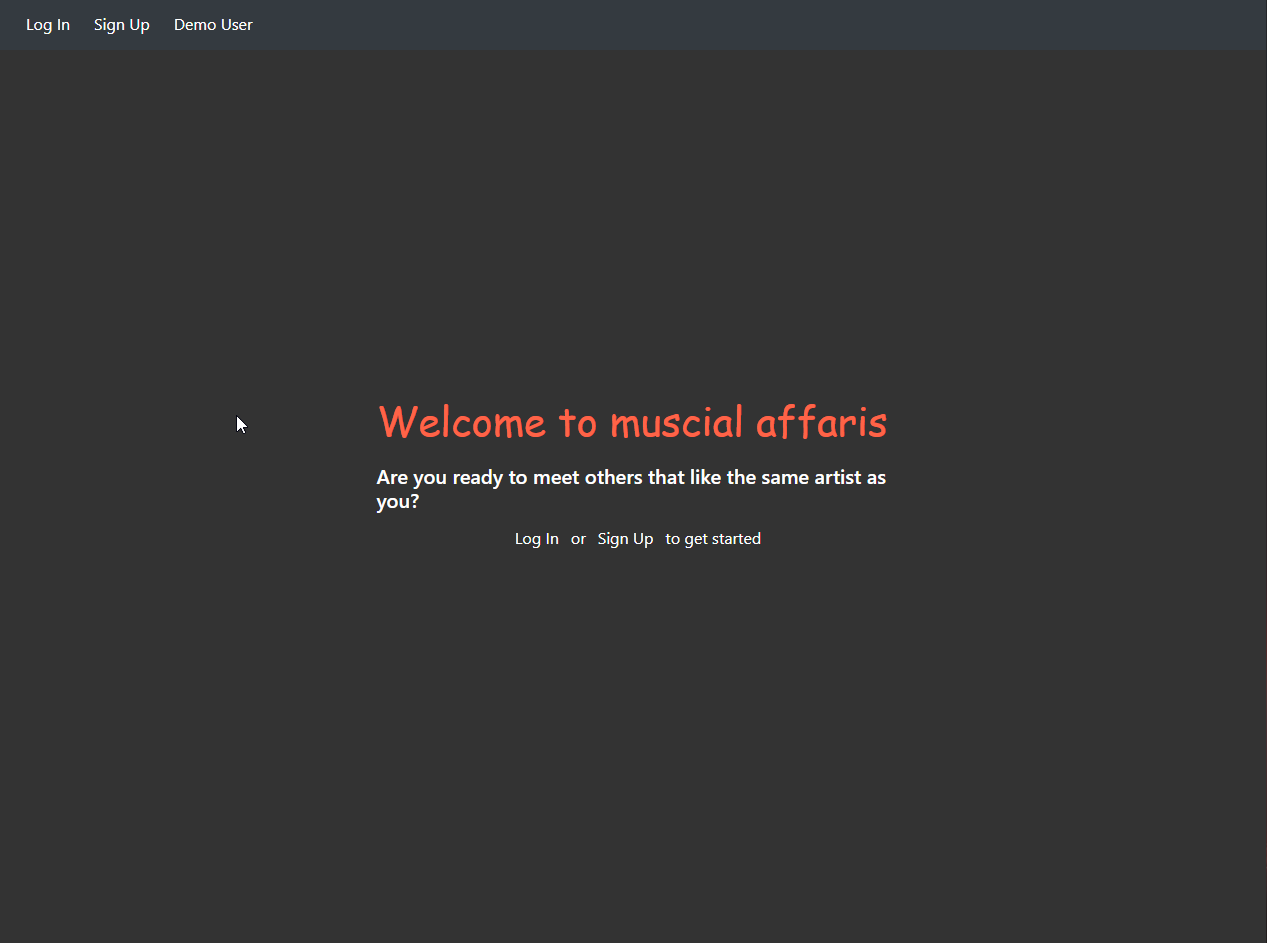
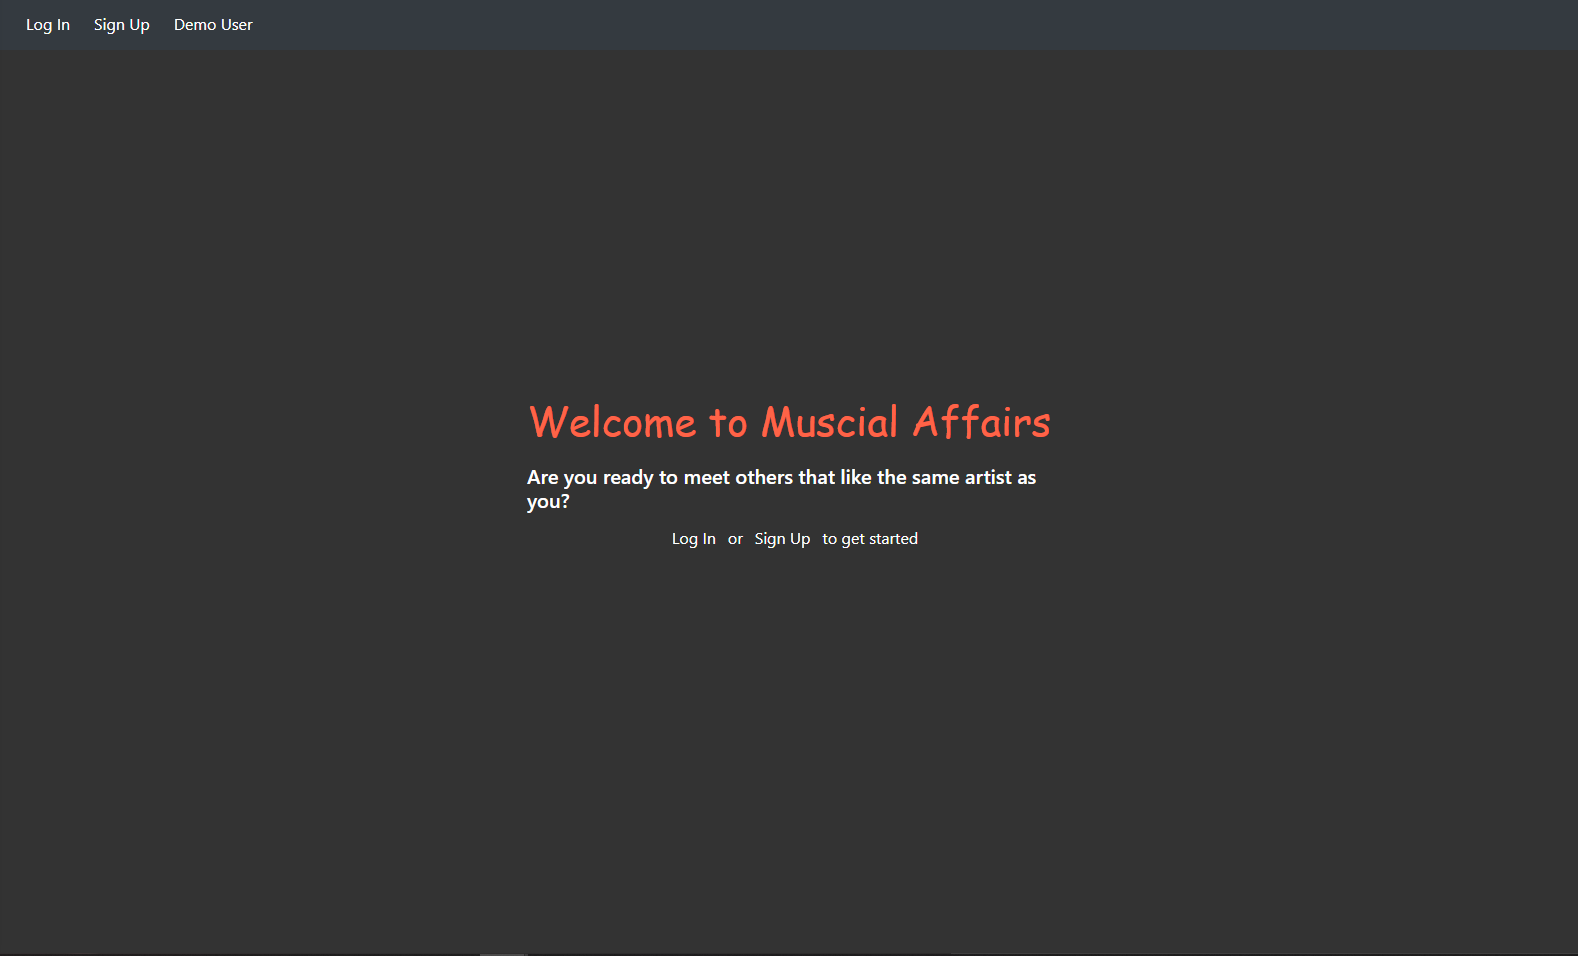
chnage in landing page

diff --git a/react-app/src/components/Chat/Chat.js b/react-app/src/components/Chat/Chat.js
@@ -1,4 +1,3 @@
-
 import React, { useEffect, useState } from "react";
 import { useDispatch, useSelector } from "react-redux";
 import { getMessages } from "../../store/messages";
@@ -65,13 +64,6 @@ export default function Chat() {
           <button type="submit">Send</button>
         </form>
       </div>
-import React from "react";
-import "./Chat.css";
-
-export default function Chat() {
-  return (
-    <div>
-      <h1 style={{ color: "black" }}>CHAT</h1>
     </div>
   );
 }

diff --git a/react-app/src/App.js b/react-app/src/App.js
@@ -4,7 +4,6 @@ import { BrowserRouter, Route, Switch } from "react-router-dom";
 import ProtectedRoute from "./components/auth/ProtectedRoute";
 import RandomArtist from "./components/artists/RandomArtist";
 import FavoriteArtist from "./components/artists/FavoriteArtist";
-import Chat from "./components/Chat/Chat";
 // import { authenticate } from "./services/auth";
 import { authenticate } from "./store/session";
 import Navigation from "./components/Navigation";

diff --git a/react-app/src/components/Landing/Landing.js b/react-app/src/components/Landing/Landing.js
@@ -7,7 +7,7 @@ export default function Landing() {
   return (
     <div className="landing-div">
       <div className="landing-center">
-        <h1>Welcome to muscial affaris</h1>
+        <h1>Welcome to Muscial Affairs</h1>
         <div className="landing-desc">
           <h2>
             Are you ready to meet others that like the same artist as you?
